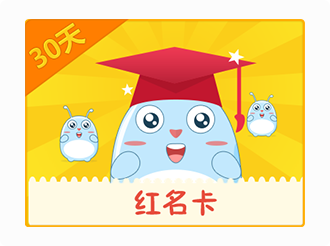
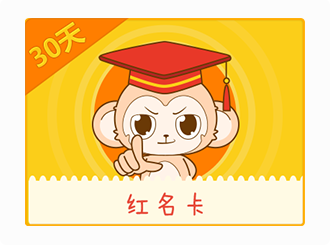
更换吉祥物

diff --git a/source/widget/UserHome.header/homeHeader.css b/source/widget/UserHome.header/homeHeader.css
@@ -5,13 +5,13 @@ body {
 }
 #module-myheader {
   padding: 10px 0;
-  background-color: #3bafda;
+  background: url(img/i_header_bg.png?20160704) no-repeat center top;
   height: 80px;
   min-width: 600px;
 }
 #module-myheader .userHome-header {
-  height: 64px;
-  width: 64px;
+  height: 60px;
+  width: 60px;
   border-radius: 50%;
 }
 #module-myheader .user-avatar {
@@ -28,7 +28,7 @@ body {
   line-height: 18px;
   margin-top: 9px;
   margin-bottom: 5px;
-  max-width: 110px;
+  max-width: 180px;
   height: 20px;
   overflow: hidden;
 }
@@ -52,6 +52,9 @@ body {
   content: "|\00a0";
   padding-right: 5px;
   color: #2599c4;
+}
+#module-myheader .user-info .popover-content {
+  color: #333;
 }
 #module-myheader .user-sex {
   padding: 4px 7px;

diff --git a/source/widget/Mall.courseInfo/ui-course-info.less b/source/widget/Mall.courseInfo/ui-course-info.less
@@ -684,18 +684,18 @@
 .ui-comment-items {
 	position: relative; z-index: 10;
 	.Extend_add_gold {
-		width:110px;
-        height:150px;
+		width:120px;
+        height:187px;
 		position: absolute;
         left: 395px; 
         bottom: 0;
         opacity : 0;
-        background: url("img/add_gold.png") no-repeat;
+        background: url("img/new_add_gold.png") no-repeat;
 		p {
-            width:105px;
+            width:85px;
             height: 20px;
             text-align: center;
-            margin-top: 104px;
+            margin-top: 170px;
             color: #666;
             font-size: 14px;
             font-weight: bold;

diff --git a/source/widget/Public.Header/header.less b/source/widget/Public.Header/header.less
@@ -16,13 +16,15 @@
     clear: both;
     .h-logo {
         float: left;
-        width: 350px;
+        width: 340px;
         line-height: 99px;
+        margin-right: 10px;
+        overflow: hidden;
         a {
             display: block;
             width: 350px;
             height: 99px;
-            background: url(img/logo.png?__inline) no-repeat left center;
+            background: url(img/logo.gif?20160704) no-repeat 5px -5px;
             color: transparent;
             
         }

diff --git a/source/widget/Public.Header/header.css b/source/widget/Public.Header/header.css
@@ -15,14 +15,16 @@
 }
 #module-header .h-logo {
   float: left;
-  width: 350px;
+  width: 340px;
   line-height: 99px;
+  margin-right: 10px;
+  overflow: hidden;
 }
 #module-header .h-logo a {
   display: block;
   width: 350px;
   height: 99px;
-  background: url(img/logo.png?__inline) no-repeat left center;
+  background: url(img/logo.gif?20160704) no-repeat 5px -5px;
   color: transparent;
 }
 #module-header .h-search {

diff --git a/source/widget/UserHome.header/homeHeader.less b/source/widget/UserHome.header/homeHeader.less
@@ -5,7 +5,7 @@ body {
 
 #module-myheader {
     padding: 10px 0;
-    background-color: #3bafda;
+    background: url(img/i_header_bg.png?20160704) no-repeat center top;
     height: 80px;
     min-width: 600px;
     //    .container {
